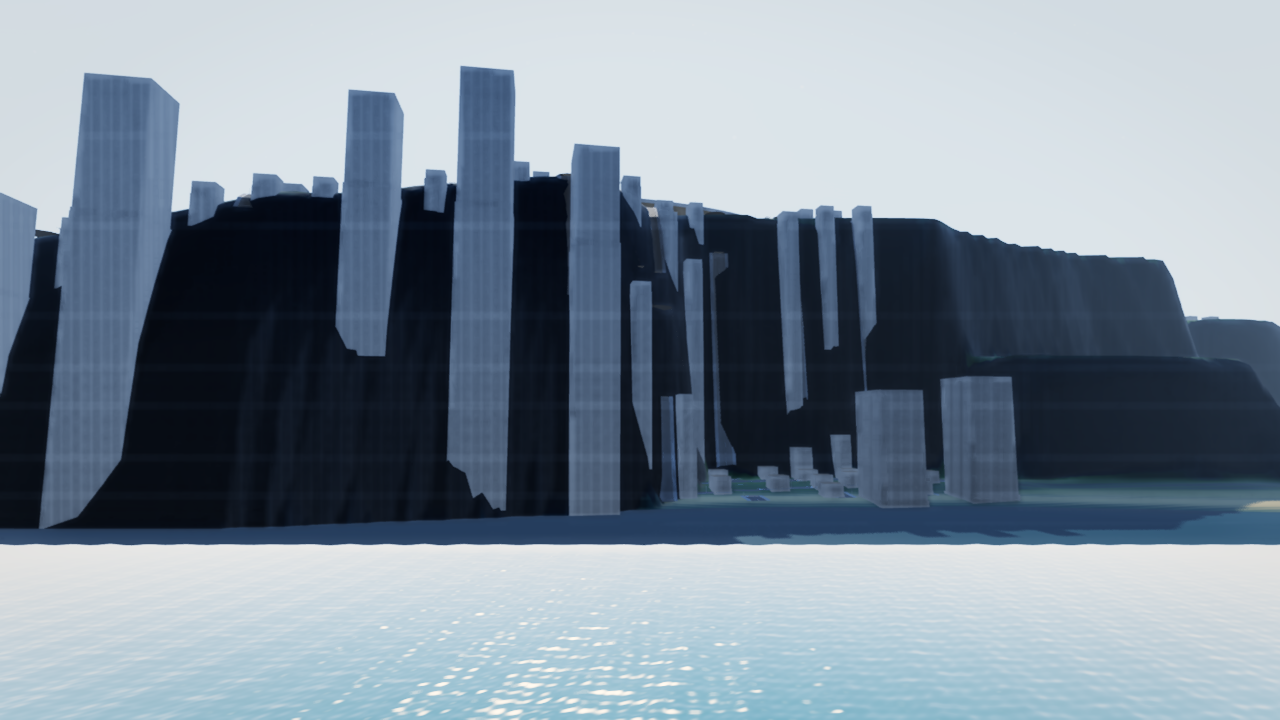
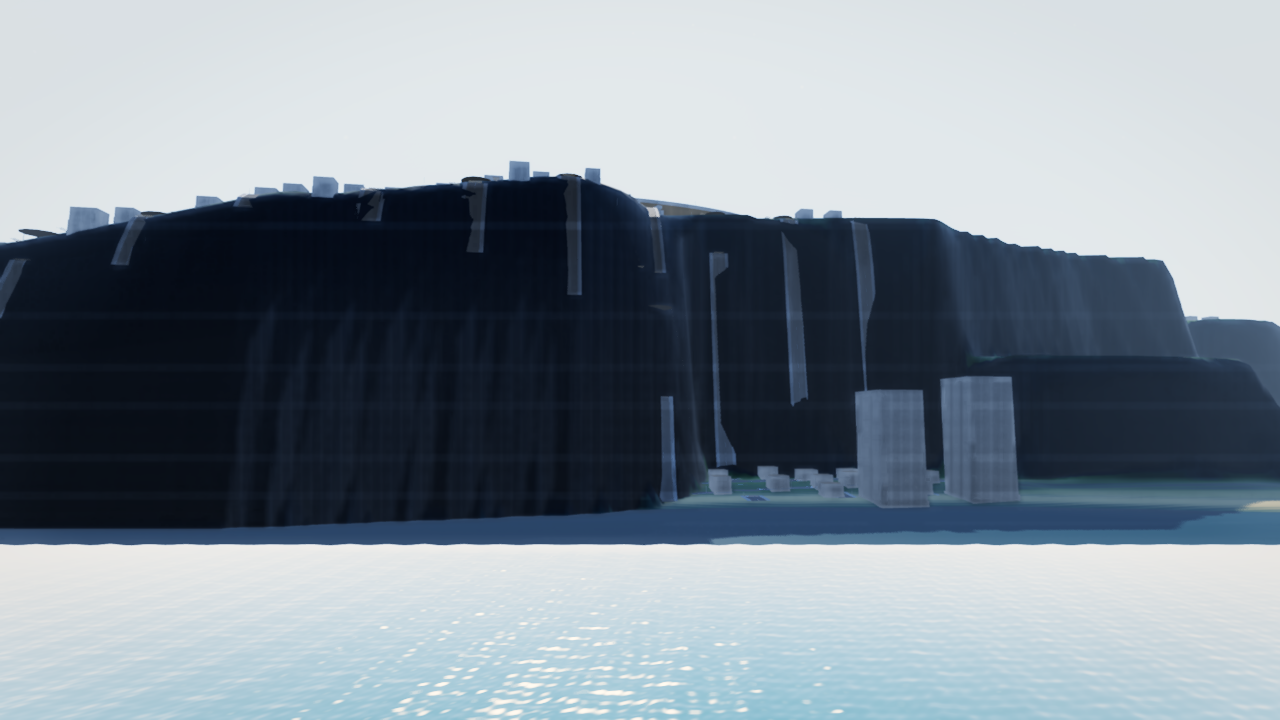
fix(city): reject cliff-edge lots — the crown rim grew 190 m pedestals to the sea
The sea-level canon shot of the regenerated harbor showed pale slabs running
the FULL height of the 190 m wall, water to sky. They were not buildings
placed badly; they were PLINTHS.

placeSeated seats a building at the MAX of its five footprint probes so no
corner floats, then drops a plinth from the lowest probe up to the seat to
fill the overhang. That is exactly right for a curb or a hillside. On a lot
straddling the crown rim the lowest probe is the SHORE, so the "plinth" was a
tower-wide pedestal from the clifftop down to the beach — and seatFootprint
had no upper bound on it (plinthThresh = 0.30 m, no ceiling).

Measured on the regenerated terrain: footprints reading up to 135 m of relief,
grades to 9.77. Twelve-plus lots.

THE FIX, in two independent parts:

1) GRADE REJECT (echo_roads.cpp/.h). seatFootprint now reports `grade` =
   spread / footprint diagonal, and `buildable` = grade <= kMaxSeatGrade
   (0.50, ~27 deg). Scale-free on purpose: 6 m of relief is a gentle hillside
   under a 60 m tower and a cliff under a 6 m shed, and only the ratio can tell
   those apart. placeSeated declines an unbuildable footprint outright.
   kMaxPlinthDrop (14 m) bounds any plinth that survives the grade test, so
   the pathological case cannot come back through a different door.

2) OFF-ITS-OWN-STREET REJECT (echo_region_builders.cpp). The grade test
   catches a footprint that STRADDLES the wall but not one that finds a flat
[…]

diff --git a/app/world_hosts/echo_region_builders.cpp b/app/world_hosts/echo_region_builders.cpp
@@ -262,6 +262,11 @@ bool legacyCorridorHit(const EchoRoads* roads, float x, float z, float clear) {
 // a checkout where the building packs are absent (they live under D:/Assets on
 // the authoring box and are not in the repo). OFF by default: unset, this file
 // behaves exactly as if the proxy code were not here.
+// How far a building's seat may sit from the finished surface of the street it
+// fronts. Steps, driveways and a retaining course are metres; the crown-rim
+// spill was 50-190 m. Generous enough that honest terrain is never refused.
+constexpr float kMaxStreetOffset = 12.0f;
+
 bool cityProxyOn() {
     static const bool on = [](){ const char* e = std::getenv("ECHO_CITY_PROXY");
                                  return e && *e && *e != '0'; }();
@@ -309,13 +314,46 @@ struct FootprintTable {
 // Place ONE building. Every placement in this file goes through here, so the
 // footprint-corner terrain seat (and the plinth under an overhang) is not
 // something a call site can forget.
+// `roadY`, when given, is the finished surface of the street this building
+// ADDRESSES. A building that sits far off its own street is not fronting it:
+// the frontage walk offsets ~10-15 m sideways from the centreline, which on the
+// crown rim steps clean off a near-vertical 190 m wall, so points meant for a
+// clifftop street landed part-way down the face. See kMaxStreetOffset.
 bool placeSeated(EchoRegion& region, EchoRegionCtx& ctx, const BuildingPalette& p,
                  const FootprintTable& ft, int idx,
-                 float cx, float cz, float yaw, EnvArtSystem* pack) {
+                 float cx, float cz, float yaw, EnvArtSystem* pack,
+                 const float* roadY = nullptr) {
     const float halfX = ft.w[idx] * 0.5f, halfZ = ft.d[idx] * 0.5f;
     const x3::game::FootprintSeat seat =
         x3::game::seatFootprint(ctx.hf, cx, cz, yaw, halfX, halfZ);
+    // CLIFF-EDGE REJECT. A footprint straddling the crown rim reads ~190 m of
+    // relief; seating it at MAX and plinthing the drop built a tower-wide
+    // pedestal all the way down the sea wall. Such a lot is not a building
+    // site — decline it and let the caller pick another asset or skip.
+    if (seat.ok && !seat.buildable) {
+        static int rejects = 0;
+        if (++rejects <= 12)
+            x3::logInfo("[region] lot rejected — cliff grade " +
+                        std::to_string(seat.grade) + " (" +
+                        std::to_string(seat.spread) + " m across footprint) at (" +
+                        std::to_string(cx) + ", " + std::to_string(cz) + ")" +
+                        (rejects == 12 ? " [further rejects not logged]" : ""));
+        return false;
+    }
     const float gy = seat.ok ? seat.y : 190.0f;
+    // OFF-ITS-OWN-STREET REJECT. The grade test above rejects a footprint that
+    // STRADDLES the wall; this rejects one that found a flat ledge part-way
+    // DOWN it, which no local probe can distinguish from honest ground.
+    if (seat.ok && roadY && std::fabs(gy - *roadY) > kMaxStreetOffset) {
+        static int offRoad = 0;
+        if (++offRoad <= 12)
+            x3::logInfo("[region] placement rejected — seats " +
+                        std::to_string(gy - *roadY) + " m off its own street (y=" +
+                        std::to_string(gy) + ", road=" + std::to_string(*roadY) + ") at (" +
+                        std::to_string(cx) + ", " + std::to_string(cz) + ")" +
+                        (offRoad == 12 ? " [further rejects not logged]" : ""));
+        return false;
+    }
     const float s = p.scale, c = std::cos(yaw), sn = std::sin(yaw);
     const float T[16] = { c*s, 0, -sn*s, 0,  0, s, 0, 0,  sn*s, 0, c*s, 0,
                           cx, gy + p.a[idx].lift, cz, 1 };
@@ -332,9 +370,14 @@ bool placeSeated(EchoRegion& region, EchoRegionCtx& ctx, const BuildingPalette& 
         // away under this building. Seating at MAX stops it sinking; the
         // plinth stops it floating. One heightAt() at the pivot could not tell
         // you either way — that is the bug this replaces.
-        if (seat.ok && seat.plinth)
+        // Bounded: past kMaxPlinthDrop this stops being a pedestal under an
+        // overhang and becomes a wall down a hillside. The grade reject above
+        // catches the cliff case; this bounds what survives it.
+        if (seat.ok && seat.plinth) {
+            const float base = std::max(seat.yMin - 0.4f, gy - x3::game::kMaxPlinthDrop);
             ctx.roads->addPlinth(cx, cz, yaw, halfX * 1.04f, halfZ * 1.04f,
-                                 seat.yMin - 0.4f, gy + 0.10f);
+                                 base, gy + 0.10f);
+        }
         // ECHO_CITY_PROXY=1: a blockout mass at the exact footprint/yaw, for
         // photographing the LAYOUT on checkouts where the building GLBs are
         // not present. Off by default; emits nothing otherwise.
@@ -711,7 +754,8 @@ void buildCrown(EchoRegion& region, EchoRegionCtx& ctx) {
                 const float px = f.x + f.nx * halfD, pz = f.z + f.nz * halfD;
                 if (!landOk(px, pz)) { ++wet; continue; }
                 if (!occ.free(px, pz, f.yaw, halfW + 1.2f, halfD + 1.2f)) { ++spaced; continue; }
-                if (!placeSeated(region, ctx, pal, ft, idx, px, pz, f.yaw, packPtr)) continue;
+                if (!placeSeated(region, ctx, pal, ft, idx, px, pz, f.yaw, packPtr, &f.roadY))
+                    continue;
                 occ.take(px, pz, f.yaw, halfW + 1.2f, halfD + 1.2f);
                 ++fromFrontage;
                 camAt(px, pz, ctx.hf.ok() ? ctx.hf.heightAt(px, pz) : 190.0f);
@@ -1348,7 +1392,9 @@ void buildWaterfrontRow(EchoRegion& region, EchoRegionCtx& ctx) {
     // module, so walking it puts the towers exactly where the literals were
     // trying to be — but square to the street, evenly spaced, and never on it.
     // The literals remain as the no-road-graph fallback.
-    struct Spot { float x, z, yaw; };
+    // hasRoad is false for the authored-literal fallback below, which has no
+    // parent street to measure against — those keep their original behaviour.
+    struct Spot { float x, z, yaw, roadY; bool hasRoad; };
     std::vector<Spot> spots;
     bool fromRoads = false;
     if (ctx.roads && !cityLegacyOn()) {   // fallback cvar: the authored literals
@@ -1362,12 +1408,12 @@ void buildWaterfrontRow(EchoRegion& region, EchoRegionCtx& ctx) {
             const float here  = ctx.hf.heightAt(f.x, f.z);
             if (here < 2.5f) continue;                 // the pad itself is wet
             if (probe > 2.5f) continue;                // inland side — skip
-            spots.push_back({ f.x, f.z, f.yaw });
+            spots.push_back({ f.x, f.z, f.yaw, f.roadY, true });
         }
         fromRoads = !spots.empty();
     }
     if (!fromRoads)
-        for (const auto& r : kRow) spots.push_back({ r.x, r.z, r.yaw });
+        for (const auto& r : kRow) spots.push_back({ r.x, r.z, r.yaw, 0.0f, false });
 
     Occupancy occ;
     int placed = 0, spacedOut = 0, noFit = 0;
@@ -1382,7 +1428,8 @@ void buildWaterfrontRow(EchoRegion& region, EchoRegionCtx& ctx) {
         const float fx = std::sin(s.yaw), fz = std::cos(s.yaw);
         const float px = s.x - fx * halfD, pz = s.z - fz * halfD;
         if (!occ.free(px, pz, s.yaw, halfW + 3.0f, halfD + 3.0f)) { ++spacedOut; continue; }
-        if (!placeSeated(region, ctx, pal, ft, idx, px, pz, s.yaw, nullptr)) continue;
+        if (!placeSeated(region, ctx, pal, ft, idx, px, pz, s.yaw, nullptr,
+                         s.hasRoad ? &s.roadY : nullptr)) continue;
         occ.take(px, pz, s.yaw, halfW + 3.0f, halfD + 3.0f);
         ++placed;
         // WD2 CAMERA SATURATION: a promenade cam on every glass tower.

diff --git a/app/world_hosts/echo_roads.cpp b/app/world_hosts/echo_roads.cpp
@@ -2507,6 +2507,12 @@ FootprintSeat seatFootprint(const Heightfield& hf, float cx, float cz, float yaw
     }
     s.ok = true; s.y = hi; s.yMin = lo; s.spread = hi - lo;
     s.plinth = s.spread > plinthThresh;
+    // Steepness relative to the footprint's own diagonal, so the verdict does
+    // not change with building size: 6 m of relief is a gentle hillside under a
+    // 60 m tower and a cliff under a 6 m shed.
+    const float diag = std::sqrt(4.0f * (halfX * halfX + halfZ * halfZ));
+    s.grade = diag > 1e-3f ? s.spread / diag : 0.0f;
+    s.buildable = s.grade <= kMaxSeatGrade;
     return s;
 }
 
@@ -3221,6 +3227,29 @@ bool runCityBlocksSelfTest() {
         Heightfield none;
         cbCheck(!seatFootprint(none, 0, 0, 0, 5, 5).ok,
                 "seatFootprint reports NOT-ok without a heightfield");
+
+        // CLIFF-EDGE REJECT. The gentle ramp above is a building site; a rim
+        // straddling a sheer wall is not. Before this, both seated at MAX and
+        // both got a plinth — which on the 190 m crown wall meant a pedestal
+        // from the tower down to the sea. grade is scale-free, so assert it
+        // against the footprint that produced it, not against a fixed metre count.
+        cbCheck(std::fabs(s.grade - s.spread / std::sqrt(4.0f * (30.0f * 30.0f + 30.0f * 30.0f)))
+                    < 1e-4f, "grade is spread over the footprint diagonal");
+        cbCheck(s.buildable, "a gentle ramp is a buildable footprint");
+        Heightfield cliff;
+        cliff.w = cliff.h = 64;
+        cliff.px.resize(64 * 64);
+        for (int z = 0; z < 64; ++z)
+            for (int x = 0; x < 64; ++x)
+                cliff.px[(size_t)z * 64 + x] =
+                    (uint16_t)(Heightfield::kSeaNorm * 65535.0f + (x >= 32 ? 20000.0f : 0.0f));
+        cbCheck(cliff.ok(), "synthetic cliff heightfield loads");
+        // Centre the footprint ON the step, so its corners straddle the wall.
+        // heightAt maps world x -> u = (x/kMeters + 0.5)*(w-1); invert for u=32.
+        const float rimX = (32.0f / 63.0f - 0.5f) * Heightfield::kMeters;
+        const FootprintSeat cs = seatFootprint(cliff, rimX, 0.0f, 0.0f, 30.0f, 30.0f);
+        cbCheck(cs.ok && cs.spread > s.spread, "the cliff footprint spans far more relief");
+        cbCheck(!cs.buildable, "a footprint straddling a sheer wall is REJECTED");
     }
 
     // ---- NEGATIVE CONTROL --------------------------------------------------

diff --git a/app/world_hosts/echo_roads.h b/app/world_hosts/echo_roads.h
@@ -292,12 +292,22 @@ int      seedWeighted(uint32_t seed, const float* weights, int n);
 // made houses float a corner or sink one; this probes the four footprint
 // corners plus the centre and seats at the MAX so nothing floats, reporting
 // the spread so the caller can drop a plinth under the overhang.
+// A footprint whose corners disagree by more than kMaxSeatGrade of its own
+// diagonal is not a building site, it is a cliff edge. Seating at MAX and
+// plinthing the overhang is right for a curb or a hillside, but on Echo
+// Harbor's 190 m crown wall it grew a full-height pedestal from the rim tower
+// down to the sea. Placement rejects those outright; kMaxPlinthDrop bounds
+// what a plinth may ever be even when the grade test passes.
+constexpr float kMaxSeatGrade  = 0.50f;   // rise/run across the footprint (~27 deg)
+constexpr float kMaxPlinthDrop = 14.0f;   // metres; deeper is terrain, not a plinth
 struct FootprintSeat {
-    bool  ok      = false;   // false when the heightfield is not loaded
-    float y       = 0;       // seat height (MAX of the 5 probes)
-    float yMin    = 0;       // lowest probe
-    float spread  = 0;       // y - yMin
-    bool  plinth  = false;   // spread exceeded the threshold
+    bool  ok        = false; // false when the heightfield is not loaded
+    float y         = 0;     // seat height (MAX of the 5 probes)
+    float yMin      = 0;     // lowest probe
+    float spread    = 0;     // y - yMin
+    float grade     = 0;     // spread / footprint diagonal — scale-free steepness
+    bool  plinth    = false; // spread exceeded the threshold
+    bool  buildable = false; // grade within kMaxSeatGrade (false => do not place)
 };
 FootprintSeat seatFootprint(const Heightfield& hf, float cx, float cz, float yaw,
                             float halfX, float halfZ, float plinthThresh = 0.30f);
